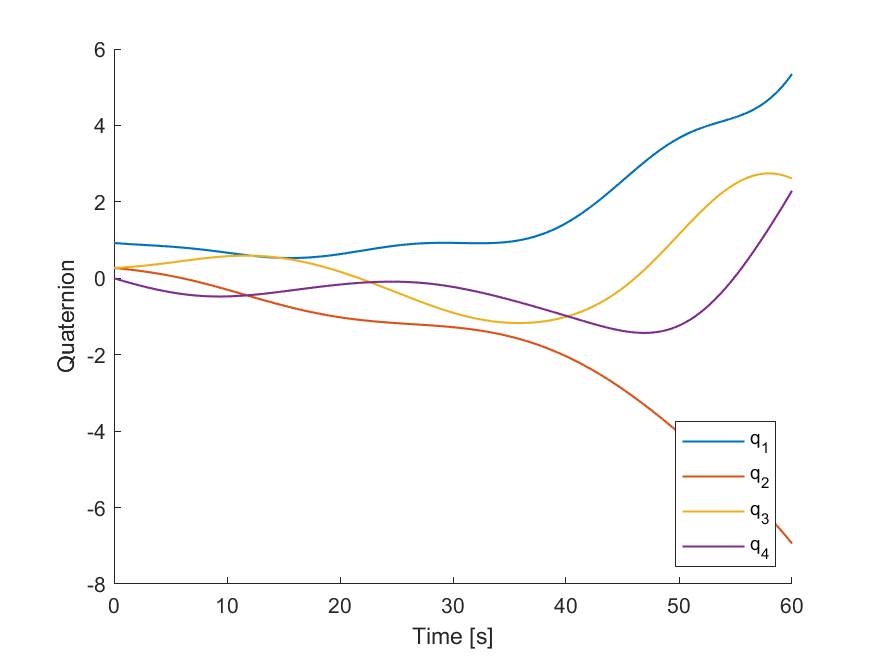
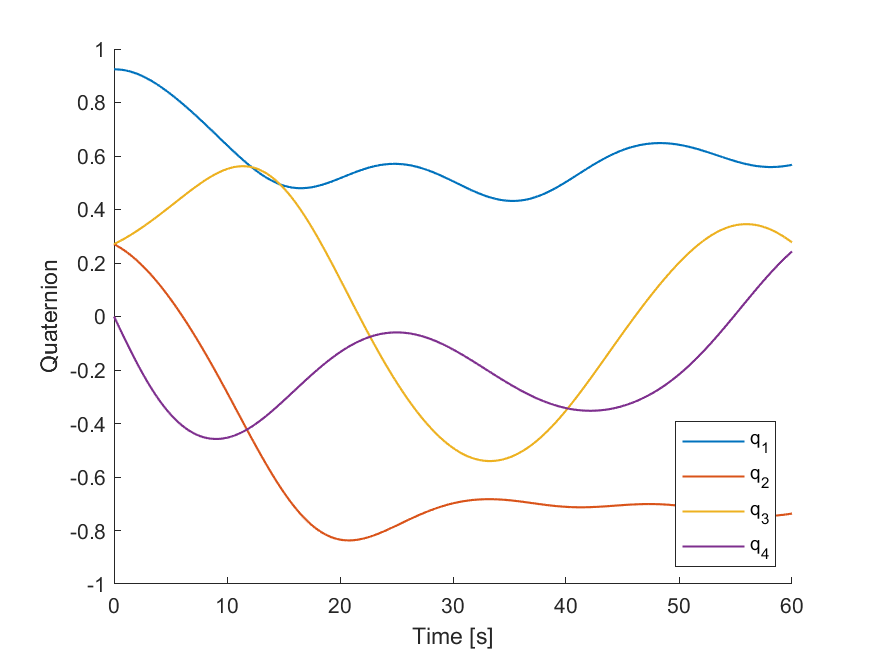
normalized quats again

diff --git a/src/ps3.m b/src/ps3.m
@@ -46,7 +46,7 @@ q0 = axang2quat(axang0).';
 
 tf = 60;
 dt = 0.0001;
-quats = kinQuaternionStepper(w0, q0, tf, dt, Ix, Iy, Iz);
+[quats, wQuats] = kinQuaternionStepper(w0, q0, tf, dt, Ix, Iy, Iz);
 t = 0:dt:tf;
 
 % ode113 section that doesn't work
@@ -81,10 +81,7 @@ psi0 = eul0(3);
 % 
 % eulerAngs = wrapTo360(rad2deg(state(:,4:end)));
 
-tf = 60;
-dt = 0.0001;
 eulerAngs = kinEulerAngleStepper(w0, phi0, theta0, psi0, tf, dt, Ix, Iy, Iz);
-t = 0:dt:tf;
 % saveas(1,'Images/ps4_problem6.png')
 
 figure(3)
@@ -97,16 +94,24 @@ saveas(3, 'Images/ps3_problem6_euler.png')
 
 %% Problem 7
 % Part a: Angular momentum
-L = [Ix Iy Iz] .* wAnalytical;
-L_norm = nan(length(tspan), 1);
-for n = 1:length(tspan)
+L_sat = [Ix Iy Iz] .* wAnalytical;
+
+% Convert quats to reference fram rotation matrix
+for n = 1:length(t)
+    q = quats()
+end
+
+L_norm = nan(length(t), 1);
+for n = 1:length(t)
     L_norm(n) = norm(L(n,:));
 end
 
 figure(4)
 hold on
-plot(tspan, L)
-plot(tspan, L_norm, 'k--')
+plot(t, L)
+plot(t, L_norm, 'k--')
 legend("L_{1}", "L_{2}", "L_{3}", "||L||")
 hold off
 saveas(4, 'Images/ps3_problem7a.png')
+
+% Part b: hyerpolhode of angular velocity vector

diff --git a/src/kinEulerAngleStepper.m b/src/kinEulerAngleStepper.m
@@ -1,4 +1,4 @@
-function eulerAngs = kinEulerAngleStepper(w0, phi, theta, psi, tf, dt, Ix, Iy, Iz)
+function [eulerAngs, wMat] = kinEulerAngleStepper(w0, phi, theta, psi, tf, dt, Ix, Iy, Iz)
     % state = [omega_vector; phi; theta; psi];
     
     % Initialize
@@ -8,6 +8,8 @@ function eulerAngs = kinEulerAngleStepper(w0, phi, theta, psi, tf, dt, Ix, Iy, I
     numSteps = ceil(tf/dt);
     eulerAngs = nan(3,numSteps+1);
     eulerAngs(:,1) = [phi; theta; psi];
+    wMat = nan(3,numSteps+1);
+    wMat(:,1) = w0;
     t = 0;
 
     for n = 1:numSteps
@@ -30,6 +32,7 @@ function eulerAngs = kinEulerAngleStepper(w0, phi, theta, psi, tf, dt, Ix, Iy, I
         psi = psi + psiDot*dt;
 
         eulerAngs(:,n+1) = [phi; theta; psi];
+        wMat(:,n+1) = [wx; wy; wz];
         t = t + dt;
     end
 end

diff --git a/src/kinQuaternionStepper.m b/src/kinQuaternionStepper.m
@@ -1,4 +1,4 @@
-function quats = kinQuaternionStepper(w0, qT, tf, dt, Ix, Iy, Iz)
+function [quats, wMat] = kinQuaternionStepper(w0, qT, tf, dt, Ix, Iy, Iz)
     % state = [omega_vector; phi; theta; psi];
     
     % Initialize
@@ -8,6 +8,8 @@ function quats = kinQuaternionStepper(w0, qT, tf, dt, Ix, Iy, Iz)
     numSteps = ceil(tf/dt);
     quats = nan(4,numSteps+1);
     quats(:,1) = qT;
+    wMat = nan(3,numSteps+1);
+    wMat(:,1) = w0;
     t = 0;
 
     for n = 1:numSteps
@@ -29,7 +31,8 @@ function quats = kinQuaternionStepper(w0, qT, tf, dt, Ix, Iy, Iz)
         wz = wz + wzDot*dt;
         qT = qT + qDot*dt;
 
-        quats(:,n+1) = qT;
+        quats(:,n+1) = qT/norm(qT);
+        wMat(:,n+1) = [wx; wy; wz];
         t = t + dt;
     end
 end
